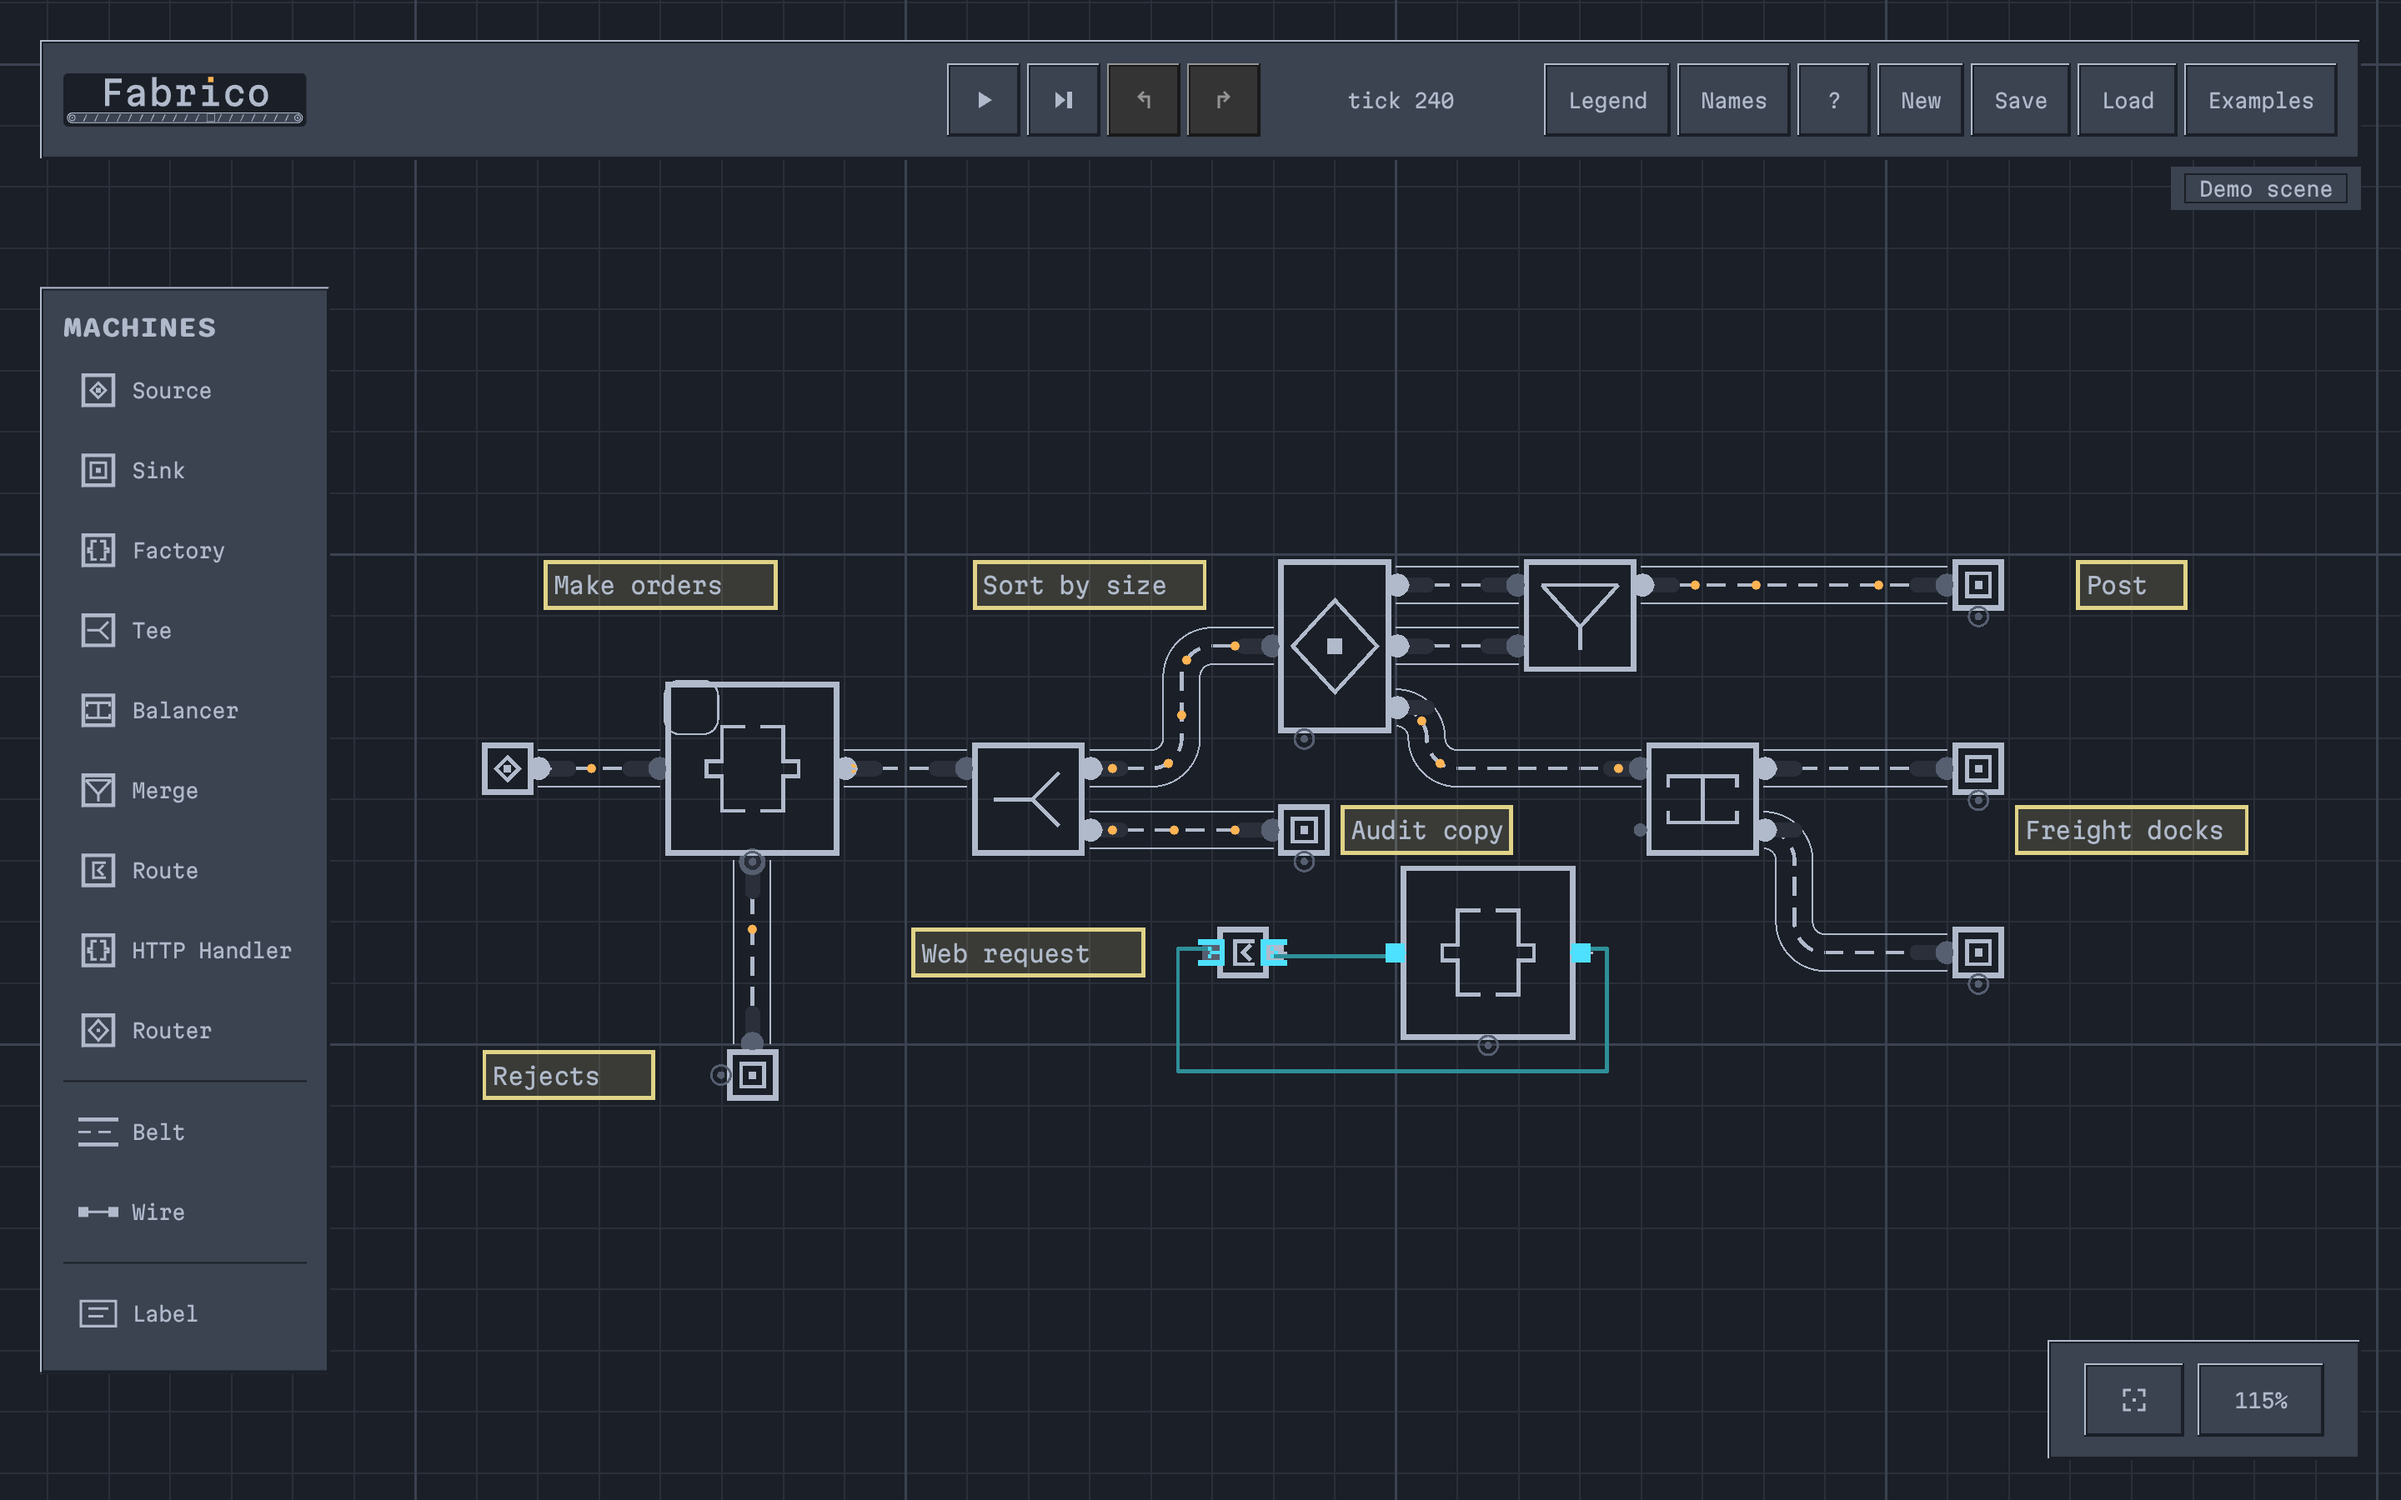
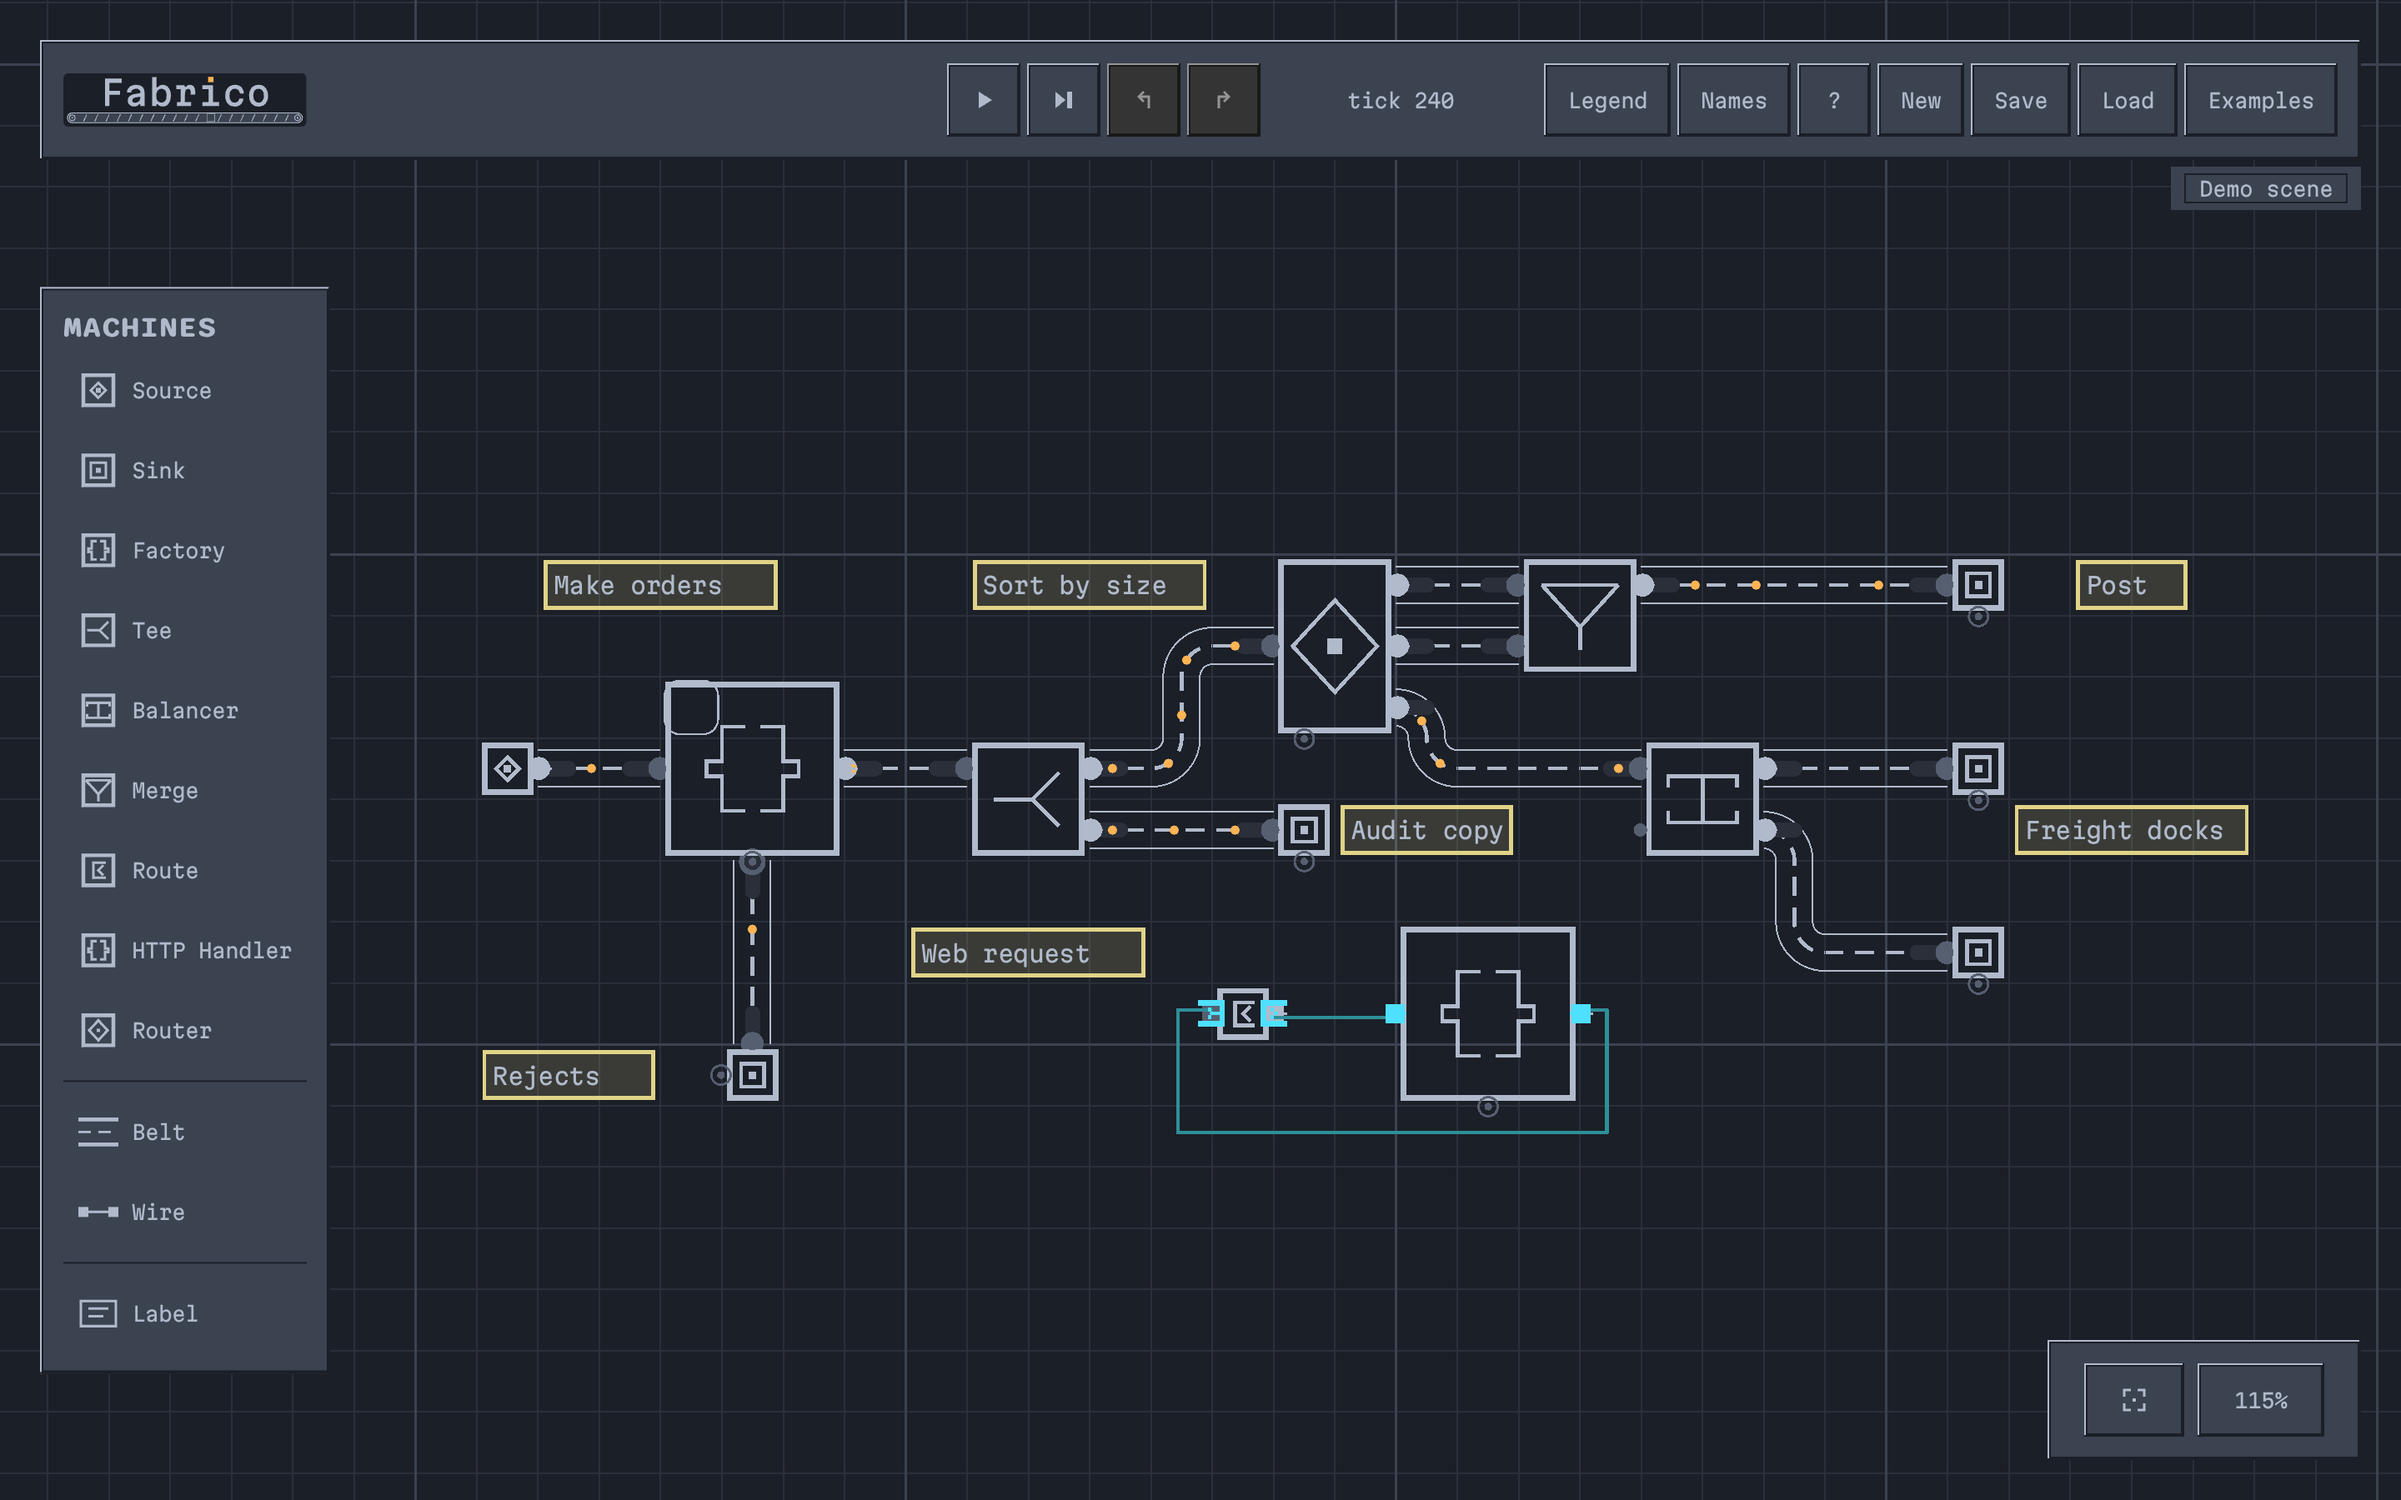
feat(101-03): Make the docs job install img2webp and keep the hero, and retake the moved tour pictures
- The docs job's apt line installs Ubuntu's webp package for the hero encoder, and a last step
  keeps site/dist/hero/ as the fabrico-hero artifact on every run that isn't cancelled
- ci_wiring_parity.rs pins the apt line and the upload step, with one plant test for an apt line
  without webp and one for the upload step taken out
- npm run capture:tour retook the tour pictures on the demo board with its Route and HTTP Handler
  one row lower; overview, camera-default and camera-zoomed changed, the other five came out
  byte-equal

Claude-Session: https://claude.ai/code/session_01E3NfU4HMmGhpKdJYHwFcdj

Changed region(s): [[0.5, 0.56, 0.6875, 0.7467]]

diff --git a/crates/fabrico-host/tests/ci_wiring_parity.rs b/crates/fabrico-host/tests/ci_wiring_parity.rs
@@ -1300,6 +1300,118 @@ fn the_docs_job_checks_name_each_way_of_switching_it_off() {
     );
 }
 
+/// The docs job's lines for the README's hero: the apt line that installs img2webp (Ubuntu's `webp`
+/// package) beside clang and llvm, and the three lines of the step that keeps `site/dist/hero/` as
+/// the `fabrico-hero` artifact. `scripts/build-site.sh` captures the hero, so `DOCS_RUN_LINES`
+/// already pins the run line; these pin the encoder it needs on the runner, which has no
+/// ImageMagick, and the upload a reviewer downloads the hero from.
+const DOCS_HERO_LINES: [&str; 4] = [
+    "sudo apt-get install -y --no-install-recommends clang llvm webp",
+    "uses: actions/upload-artifact@v4",
+    "name: fabrico-hero",
+    "path: site/dist/hero/",
+];
+/// The hero upload's condition: every run that isn't cancelled, a failed docs suite included.
+const DOCS_HERO_IF: &str = "if: ${{ !cancelled() }}";
+
+/// Everything wrong with how `yml` installs the hero's encoder and keeps the hero in the docs job.
+/// Empty means right.
+fn docs_hero_wrong(yml: &str) -> Vec<String> {
+    let mut wrong: Vec<String> = Vec::new();
+    let blocks = job_blocks_in(yml);
+    let Some((_, docs)) = blocks.iter().find(|(id, _)| *id == DOCS_JOB) else {
+        return vec![format!("there is no job `{DOCS_JOB}` under `jobs:`.")];
+    };
+    let [apt, _, name, _] = DOCS_HERO_LINES;
+
+    let found = docs.iter().filter(|l| step_key(l) == apt).count();
+    if found != 1 {
+        wrong.push(format!(
+            "`{apt}` appears {found} time(s) in job `{DOCS_JOB}`, expected 1. Without the `webp` \
+             package the runner has no hero encoder, and the site build stops at the hero."
+        ));
+    }
+
+    match one_step_with(docs, name, DOCS_JOB) {
+        Err(message) => wrong.push(format!(
+            "{message} The docs job keeps the hero it made as the `fabrico-hero` artifact."
+        )),
+        Ok((at, step)) => {
+            for key in DOCS_HERO_LINES[1..]
+                .iter()
+                .copied()
+                .chain([DOCS_HERO_IF, "if-no-files-found: error"])
+            {
+                if !step.iter().any(|l| step_key(l) == key) {
+                    wrong.push(format!(
+                        "the step carrying `{name}` in job `{DOCS_JOB}` has no `{key}` line. \
+                         Without it a run keeps no hero, keeps the wrong folder, or keeps none \
+                         when the docs suite fails."
+                    ));
+                }
+            }
+            let suite = docs.iter().position(|l| step_key(l) == DOCS_RUN_LINES[7]);
+            if let Some(s) = suite
+                && s > at
+            {
+                wrong.push(format!(
+                    "job `{DOCS_JOB}` keeps the hero before it runs `{}`.",
+                    DOCS_RUN_LINES[7]
+                ));
+            }
+        }
+    }
+    wrong
+}
+
+/// The docs job installs img2webp beside clang and llvm, and keeps the hero its site build made as
+/// the `fabrico-hero` artifact on every run that isn't cancelled.
+#[test]
+fn the_docs_job_installs_the_hero_encoder_and_keeps_the_hero() {
+    let wrong = docs_hero_wrong(CI_YML);
+    assert!(
+        wrong.is_empty(),
+        "the docs job doesn't make and keep the README's hero as it has to:\n{}\n\
+         Update the WORKFLOW to match this test.",
+        wrong.join("\n")
+    );
+}
+
+/// `docs_hero_wrong` names the docs job's apt line when `webp` is taken off it.
+#[test]
+fn the_docs_hero_check_names_an_apt_line_without_webp() {
+    let yml = CI_YML.replace(
+        "--no-install-recommends clang llvm webp\n",
+        "--no-install-recommends clang llvm\n",
+    );
+    assert_ne!(yml, CI_YML, "the plant landed");
+    let named = docs_hero_wrong(&yml).join("\n");
+    let must_name = format!(
+        "`{}` appears 0 time(s) in job `{DOCS_JOB}`, expected 1.",
+        DOCS_HERO_LINES[0]
+    );
+    assert!(
+        named.contains(&must_name),
+        "expected `{must_name}` named, got: {named:?}"
+    );
+}
+
+/// `docs_hero_wrong` names the hero upload when its step is taken out of the docs job.
+#[test]
+fn the_docs_hero_check_names_a_missing_hero_upload() {
+    let yml = without_step(CI_YML, "      - name: Keep the hero this run made\n");
+    assert_ne!(yml, CI_YML, "the plant landed");
+    let named = docs_hero_wrong(&yml).join("\n");
+    let must_name = format!(
+        "`{}` appears 0 time(s) in job `{DOCS_JOB}`, expected 1.",
+        DOCS_HERO_LINES[2]
+    );
+    assert!(
+        named.contains(&must_name),
+        "expected `{must_name}` named, got: {named:?}"
+    );
+}
+
 /// Rule (f) of `ci_spend_controls_are_wired_fail_safe` over any workflow text: every non-comment
 /// line that reads the classifier's output is `HEAVY_GATE`, or is `DOCS_GATE` inside `DOCS_JOB`,
 /// and `DOCS_GATE` appears exactly once in the file. Empty means right.
